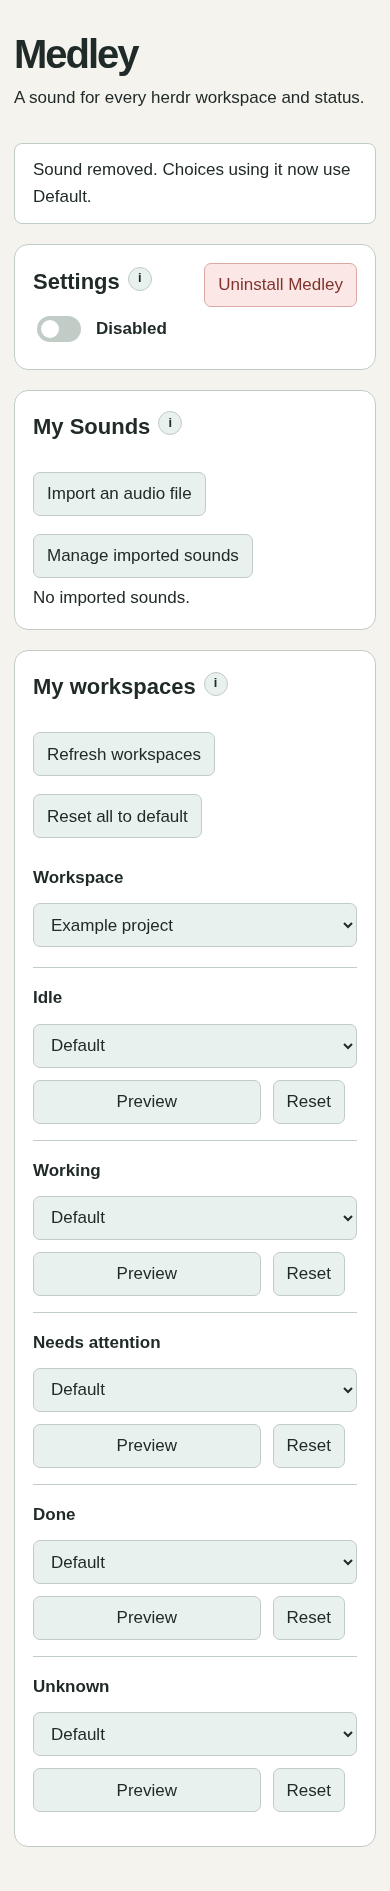
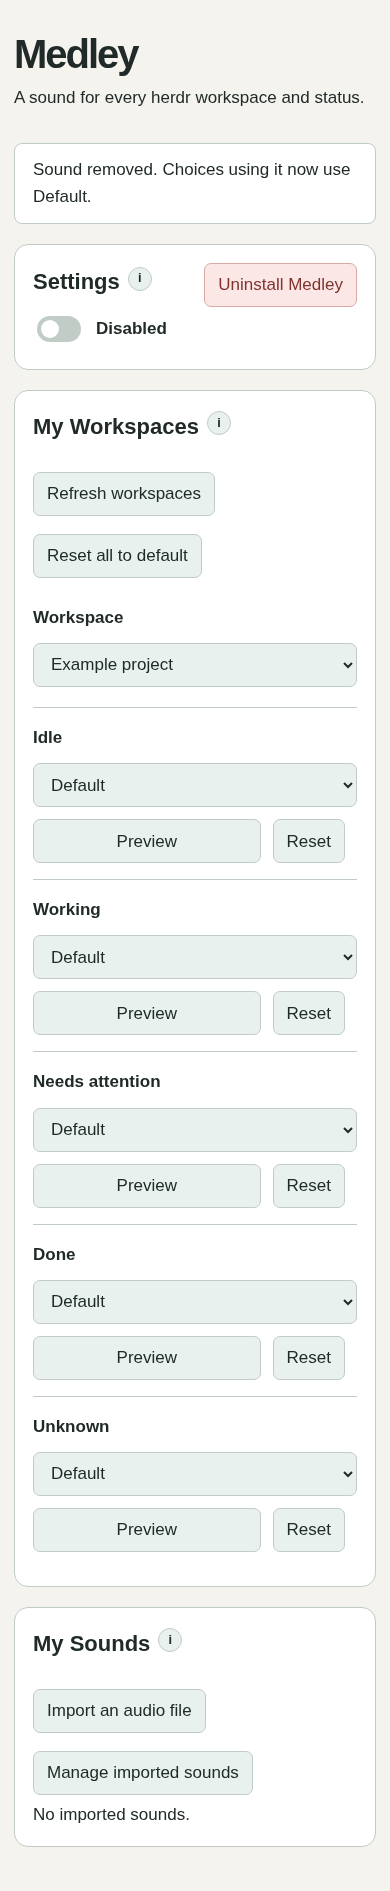
Place workspace and expanded sound panels side by side

diff --git a/assets/index.html b/assets/index.html
@@ -3,7 +3,9 @@
 <body><main><header><h1>Medley</h1><p>A sound for every herdr workspace and status.</p></header>
 <p id="feedback" role="status" aria-live="polite" hidden></p><p id="error" role="alert" hidden></p><audio id="player" controls hidden aria-label="Sound preview"></audio>
 <section aria-labelledby="playback-heading"><div class="section-heading"><div class="library-heading"><h2 id="playback-heading">Settings</h2><button class="info-button" type="button" popovertarget="medley-help" aria-label="About Medley">i</button></div><button id="uninstall">Uninstall Medley</button></div><label class="toggle"><input type="checkbox" role="switch" aria-label="Medley enabled" id="enabled"> <span id="enabled-label">Disabled</span></label><div id="medley-help" class="help-popover" popover><p>Medley handles notification sounds while enabled. Disabling or using Uninstall Medley here restores herdr’s previous sound setting. Audio plays on the herdr server’s machine, including for the workspace you are viewing.</p><p>Local settings · No account or cloud service required</p></div></section>
-<section aria-labelledby="library-heading"><div class="section-heading"><div class="library-heading"><h2 id="library-heading">My Sounds</h2><button class="info-button" type="button" popovertarget="library-help" aria-label="About audio imports">i</button></div><div class="library-actions"><button id="choose-audio" type="button">Import an audio file</button><input type="file" accept=".mp3,.wav,audio/mpeg,audio/wav" id="upload" aria-label="Import an audio file" hidden><button id="manage-library" aria-expanded="false" aria-controls="library-files">Manage imported sounds</button></div></div><div id="library-help" class="help-popover" popover>Choose an MP3 or WAV to import it immediately, then select it in any workspace. WAV files convert to MP3. Maximum 20 MB.</div><div id="library-files" hidden></div></section>
-<section aria-labelledby="rules-heading"><div class="section-heading"><div class="library-heading"><h2 id="rules-heading">My workspaces</h2><button class="info-button" type="button" popovertarget="workspace-help" aria-label="About workspace sounds">i</button></div><div><button id="refresh">Refresh workspaces</button> <button id="reset">Reset all to default</button> <button id="undo" hidden>Undo reset</button></div></div><div id="workspace-help" class="help-popover" popover>Choose a workspace and a status. Changes save immediately. Default follows herdr’s configured completion or attention sound; Working and Unknown are quiet by default.</div>
+<div class="workspace-sounds-layout">
+<section aria-labelledby="rules-heading"><div class="section-heading"><div class="library-heading"><h2 id="rules-heading">My Workspaces</h2><button class="info-button" type="button" popovertarget="workspace-help" aria-label="About workspace sounds">i</button></div><div><button id="refresh">Refresh workspaces</button> <button id="reset">Reset all to default</button> <button id="undo" hidden>Undo reset</button></div></div><div id="workspace-help" class="help-popover" popover>Choose a workspace and a status. Changes save immediately. Default follows herdr’s configured completion or attention sound; Working and Unknown are quiet by default.</div>
 <div class="workspace-row"><label for="workspace">Workspace</label><select id="workspace"></select></div><div id="rules"></div></section>
+<section aria-labelledby="library-heading"><div class="section-heading"><div class="library-heading"><h2 id="library-heading">My Sounds</h2><button class="info-button" type="button" popovertarget="library-help" aria-label="About audio imports">i</button></div><div class="library-actions"><button id="choose-audio" type="button">Import an audio file</button><input type="file" accept=".mp3,.wav,audio/mpeg,audio/wav" id="upload" aria-label="Import an audio file" hidden><button id="manage-library" aria-expanded="true" aria-controls="library-files">Manage imported sounds</button></div></div><div id="library-help" class="help-popover" popover>Choose an MP3 or WAV to import it immediately, then select it in any workspace. WAV files convert to MP3. Maximum 20 MB.</div><div id="library-files"></div></section>
+</div>
 </main></body></html>

diff --git a/assets/style.css b/assets/style.css
@@ -17,3 +17,5 @@ input[type=file]{font-size:0;width:132px}input::file-selector-button{font:1.0625
 .section-heading>div:not(.library-heading){display:flex;align-items:center;flex-wrap:wrap;gap:12px}.info-button{width:24px;min-height:24px;height:24px;font-size:12.75px}
 
 .sound-actions{display:flex;flex-wrap:wrap;gap:12px;flex-shrink:0;max-width:100%}.library-file>span{flex:1}.rename-form{width:100%;display:grid;grid-template-columns:minmax(0,1fr) auto;gap:12px;align-items:center}.rename-form label,.rename-error{grid-column:1/-1}.rename-form label{margin:0}.rename-form input{width:100%;min-width:0;background:var(--panel);color:var(--ink);border:1px solid var(--border);border-radius:7px;min-height:44px;padding:7px 13px}.rename-error{color:var(--error);margin:0}@media(max-width:640px){.library-file{flex-wrap:wrap}.library-file>span{flex-basis:100%}.rename-form{grid-template-columns:minmax(0,1fr)}.rename-form .sound-actions{grid-column:1}}
+
+main{max-width:1600px}.workspace-sounds-layout{display:grid;gap:20px;align-items:start;margin:20px 0}.workspace-sounds-layout>section{margin:0;min-width:0}@media(min-width:1200px){.workspace-sounds-layout{grid-template-columns:minmax(0,1.15fr) minmax(0,1fr)}}

diff --git a/docs/validation.md b/docs/validation.md
@@ -418,3 +418,41 @@ Block contract: no vendored block. Heading remains two flex children (title/info
 action group); library row remains name plus one action group. Grouped actions have
 12px gaps and a 100% maximum width so three buttons can wrap at 320px. Desktop and
 mobile rendered checks confirm these invariants.
+
+
+## Side-by-side workspace and sound panels — 2026-10-20
+
+My Workspaces uses matching title capitalization. The library starts expanded,
+with `aria-expanded=true` matching the visible list; its existing toggle still
+collapses/reopens it. DOM order is Workspaces then Sounds, matching desktop left/
+right and narrow-screen top/bottom order. A two-column grid applies from 1200px;
+below that it stacks, preserving usable selector/action widths. Main width grows
+to 1600px to accommodate both panels. Settings stays above the two panels.
+
+Validation: 16 Python tests and Chromium browser suite passed. Browser checks
+assert initial expansion and toggle behavior, side-by-side positions, aligned top
+edges and a 20px inter-panel gap. Existing preview, rename, remove, import,
+settings and uninstall fixture flows pass; 320px overflow check passes. Matching
+1280px light before/after and 390px mobile light/dark captures are scratch evidence
+at `/tmp/medley-columns-evidence/`; after desktop and dark mobile were inspected.
+Security: PASS for scope: HTML/CSS/default disclosure only, no API, credentials,
+network, file storage or playback boundary changed.
+
+Aesthetic-and-clear check-by-check review:
+
+1. Minimalism: existing two panels and controls retained, rearranged as requested.
+2. Standard controls: existing native toggle button and labeled inputs retained;
+   expanded state matches actual visibility on initial load and after toggling.
+3. Motion: no new animation; dark capture uses reduced-motion preference.
+4. Scannability: consistent My Workspaces/My Sounds titles, 20px panel gap and
+   shared top alignment; existing 12px action gaps retained.
+5. Legibility: existing scalable body/control type and theme colors retained;
+   panels stack before their content becomes cramped. Desktop/mobile captures
+   visually checked; no horizontal overflow at 320px.
+6. Accessibility/task completion: DOM order matches visual order; expanded library
+   exposes native buttons immediately. Existing keyboard preview/rename/cancel
+   flows pass. Screen-reader speech was not independently tested.
+
+Block contract: no vendored block. New grid contains exactly the two existing
+sections; heading/action and library-row child grouping remain unchanged. Rendered
+position assertions confirm desktop columns; mobile capture confirms stacking.

diff --git a/README.md b/README.md
@@ -37,7 +37,7 @@ A workspace may contain several agents. Medley reads herdr's **combined workspac
 
 Default follows herdr's configured `done_path` / `request_path`, then `path`. If no usable custom file exists, Medley uses herdr's bundled completion or attention clip. Idle and Done use completion; Needs attention uses attention; Working and Unknown are quiet. Explicit selections can add audio to any status.
 
-Use **Manage imported sounds** to view the library, preview any sound in the browser, rename it with Save/Cancel, or remove it. Renaming updates the display name everywhere while keeping audio and assignments intact. The import picker starts in Downloads in browsers supporting the File System Access picker (including desktop Chromium); other browsers use their normal file picker. Removal asks for confirmation and resets every workspace/status using that sound to Default. It removes only Medley’s imported copy, not the original file.
+The **My Sounds** library is expanded by default, beside **My Workspaces** on wide screens (and below it on narrow screens). **Manage imported sounds** toggles the list. Use the list to preview any sound in the browser, rename it with Save/Cancel, or remove it. Renaming updates the display name everywhere while keeping audio and assignments intact. The import picker starts in Downloads in browsers supporting the File System Access picker (including desktop Chromium); other browsers use their normal file picker. Removal asks for confirmation and resets every workspace/status using that sound to Default. It removes only Medley’s imported copy, not the original file.
 
 ## Where audio plays
 
